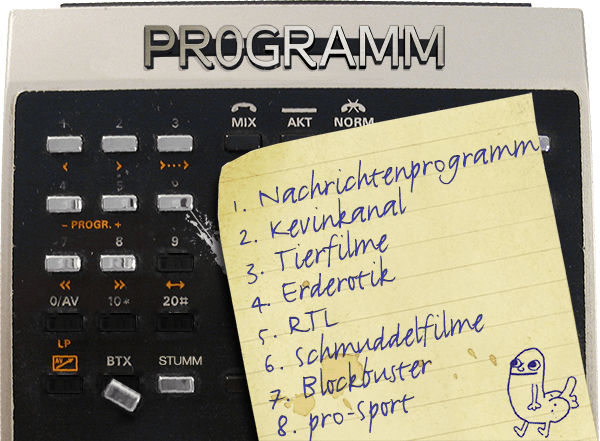
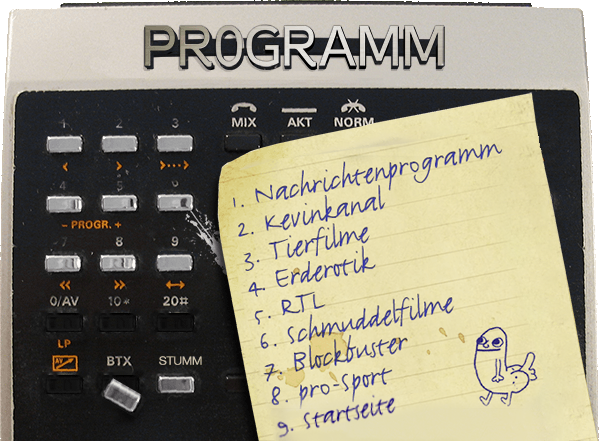
Added home button functionality

Changed region(s): [[0.39, 0.2948, 0.96, 1.0], [0.24, 0.5601, 0.33, 0.619]]

diff --git a/pr0-tv.js b/pr0-tv.js
@@ -34,6 +34,7 @@ function init(){
                   ' <div class="tv-remote-button tv-remote-button-6" data-num="6" data-channel="porn"></div>' +
                   ' <div class="tv-remote-button tv-remote-button-7" data-num="7" data-channel="top"></div>' +
                   ' <div class="tv-remote-button tv-remote-button-8" data-num="8" data-channel="sport"></div>' +
+                  ' <div class="tv-remote-button tv-remote-button-9" data-num="9" data-channel="home"></div>' +
                   ' <div class="tv-remote-button tv-remote-button-mute" data-channel="mute"></div> </div> </div> ',
         title: "Pr0 TV",
         images: {},
@@ -144,6 +145,8 @@ function init(){
 
         clickChannel: function(ev){
             var button = $(ev.currentTarget).data("channel");
+
+            if (button === "home") window.location = "/";
 
             if (button === "mute"){
                 this.muted = !this.muted;
@@ -444,6 +447,7 @@ $(document).ready(function(){
     keys["54"] = keys["102"] = 6;
     keys["55"] = keys["103"] = 7;
     keys["56"] = keys["104"] = 8;
+    keys["57"] = keys["105"] = 9;
 
     $(document).keydown(function(e){
         if (keys[e.keyCode]) $('.tv-remote-button[data-num="' + keys[e.keyCode] + '"]').click();
@@ -597,6 +601,11 @@ $(document).ready(function(){
             top: 244px;
         }
 
+        div.tv-remote-button-9 {
+            left: 150px;
+            top: 244px;
+        }
+
         div.tv-remote-button-mute {
             left: 152px;
             top: 366px;
@@ -653,7 +662,7 @@ $(document).ready(function(){
         }
     </style>`);
 
-    $("#head-menu").append('<a class="user-only" id="pr0-tv-link" href="/pr0-tv" title="Pr0 TV">TV</a>');
+    $("#head-menu").append('<a class="user-only" id="pr0-tv-link" href="/pr0-tv" target="_blank" title="Pr0 TV">TV</a>');
 
     init();
 });
